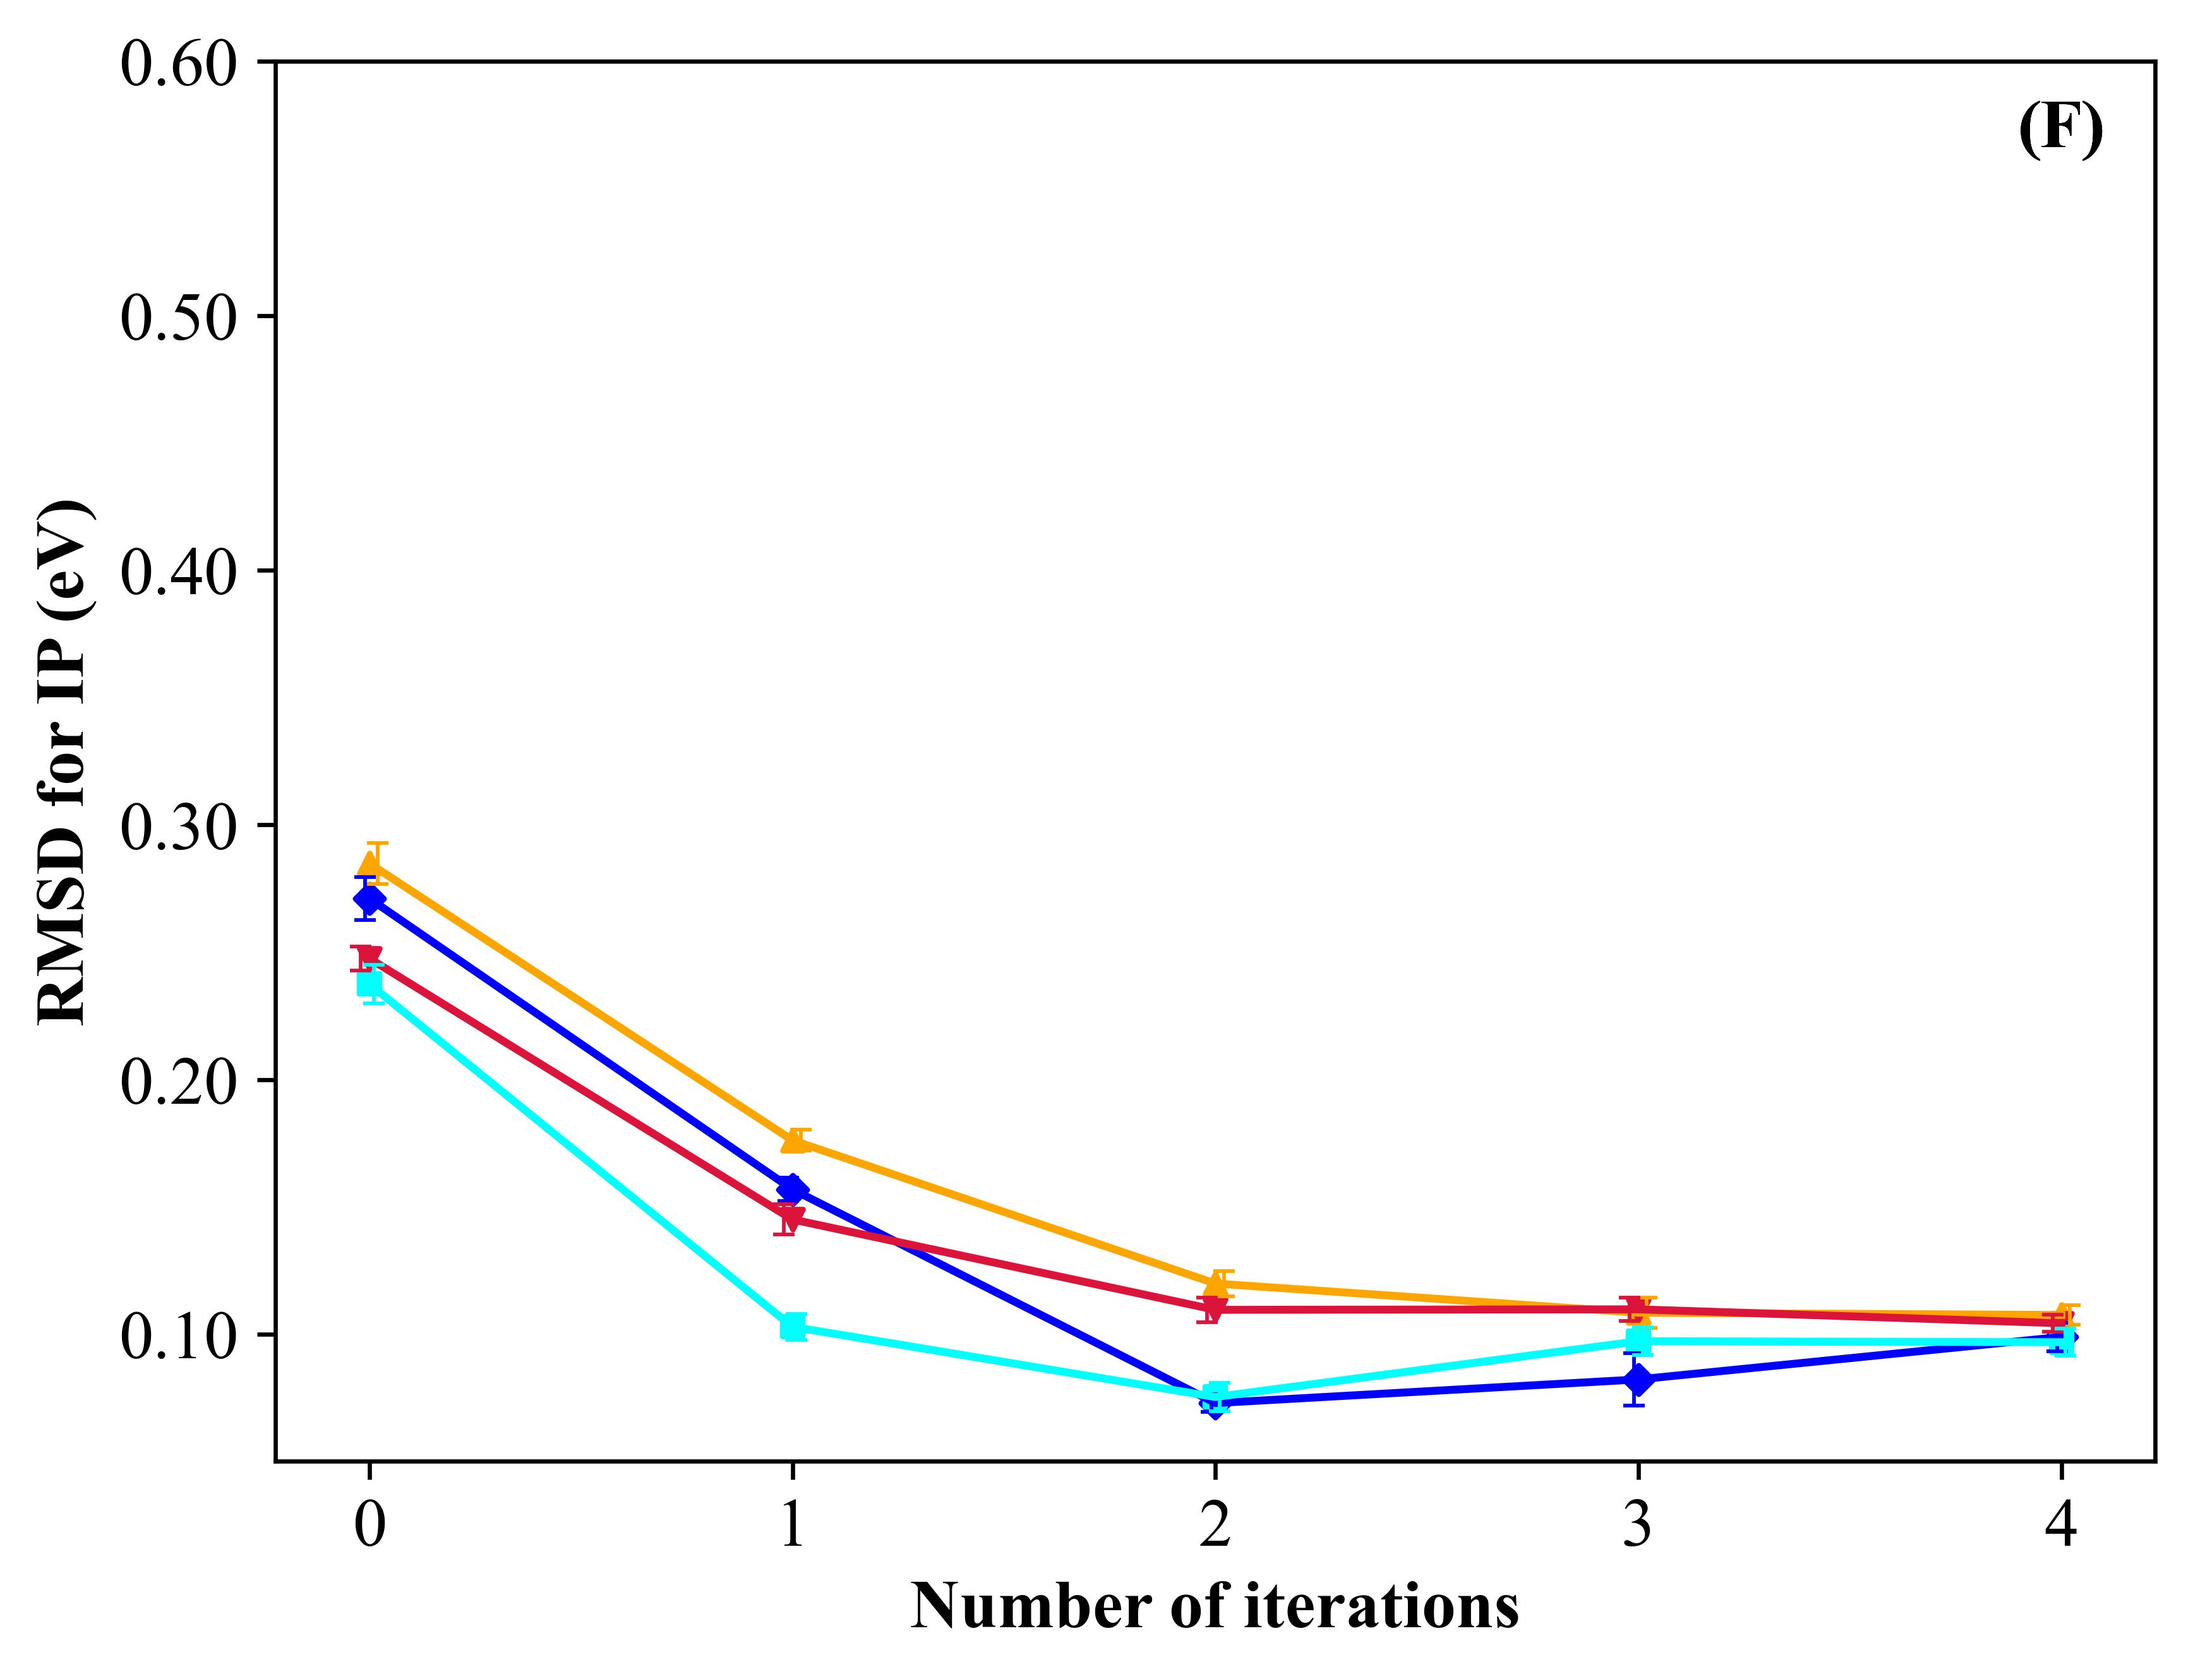
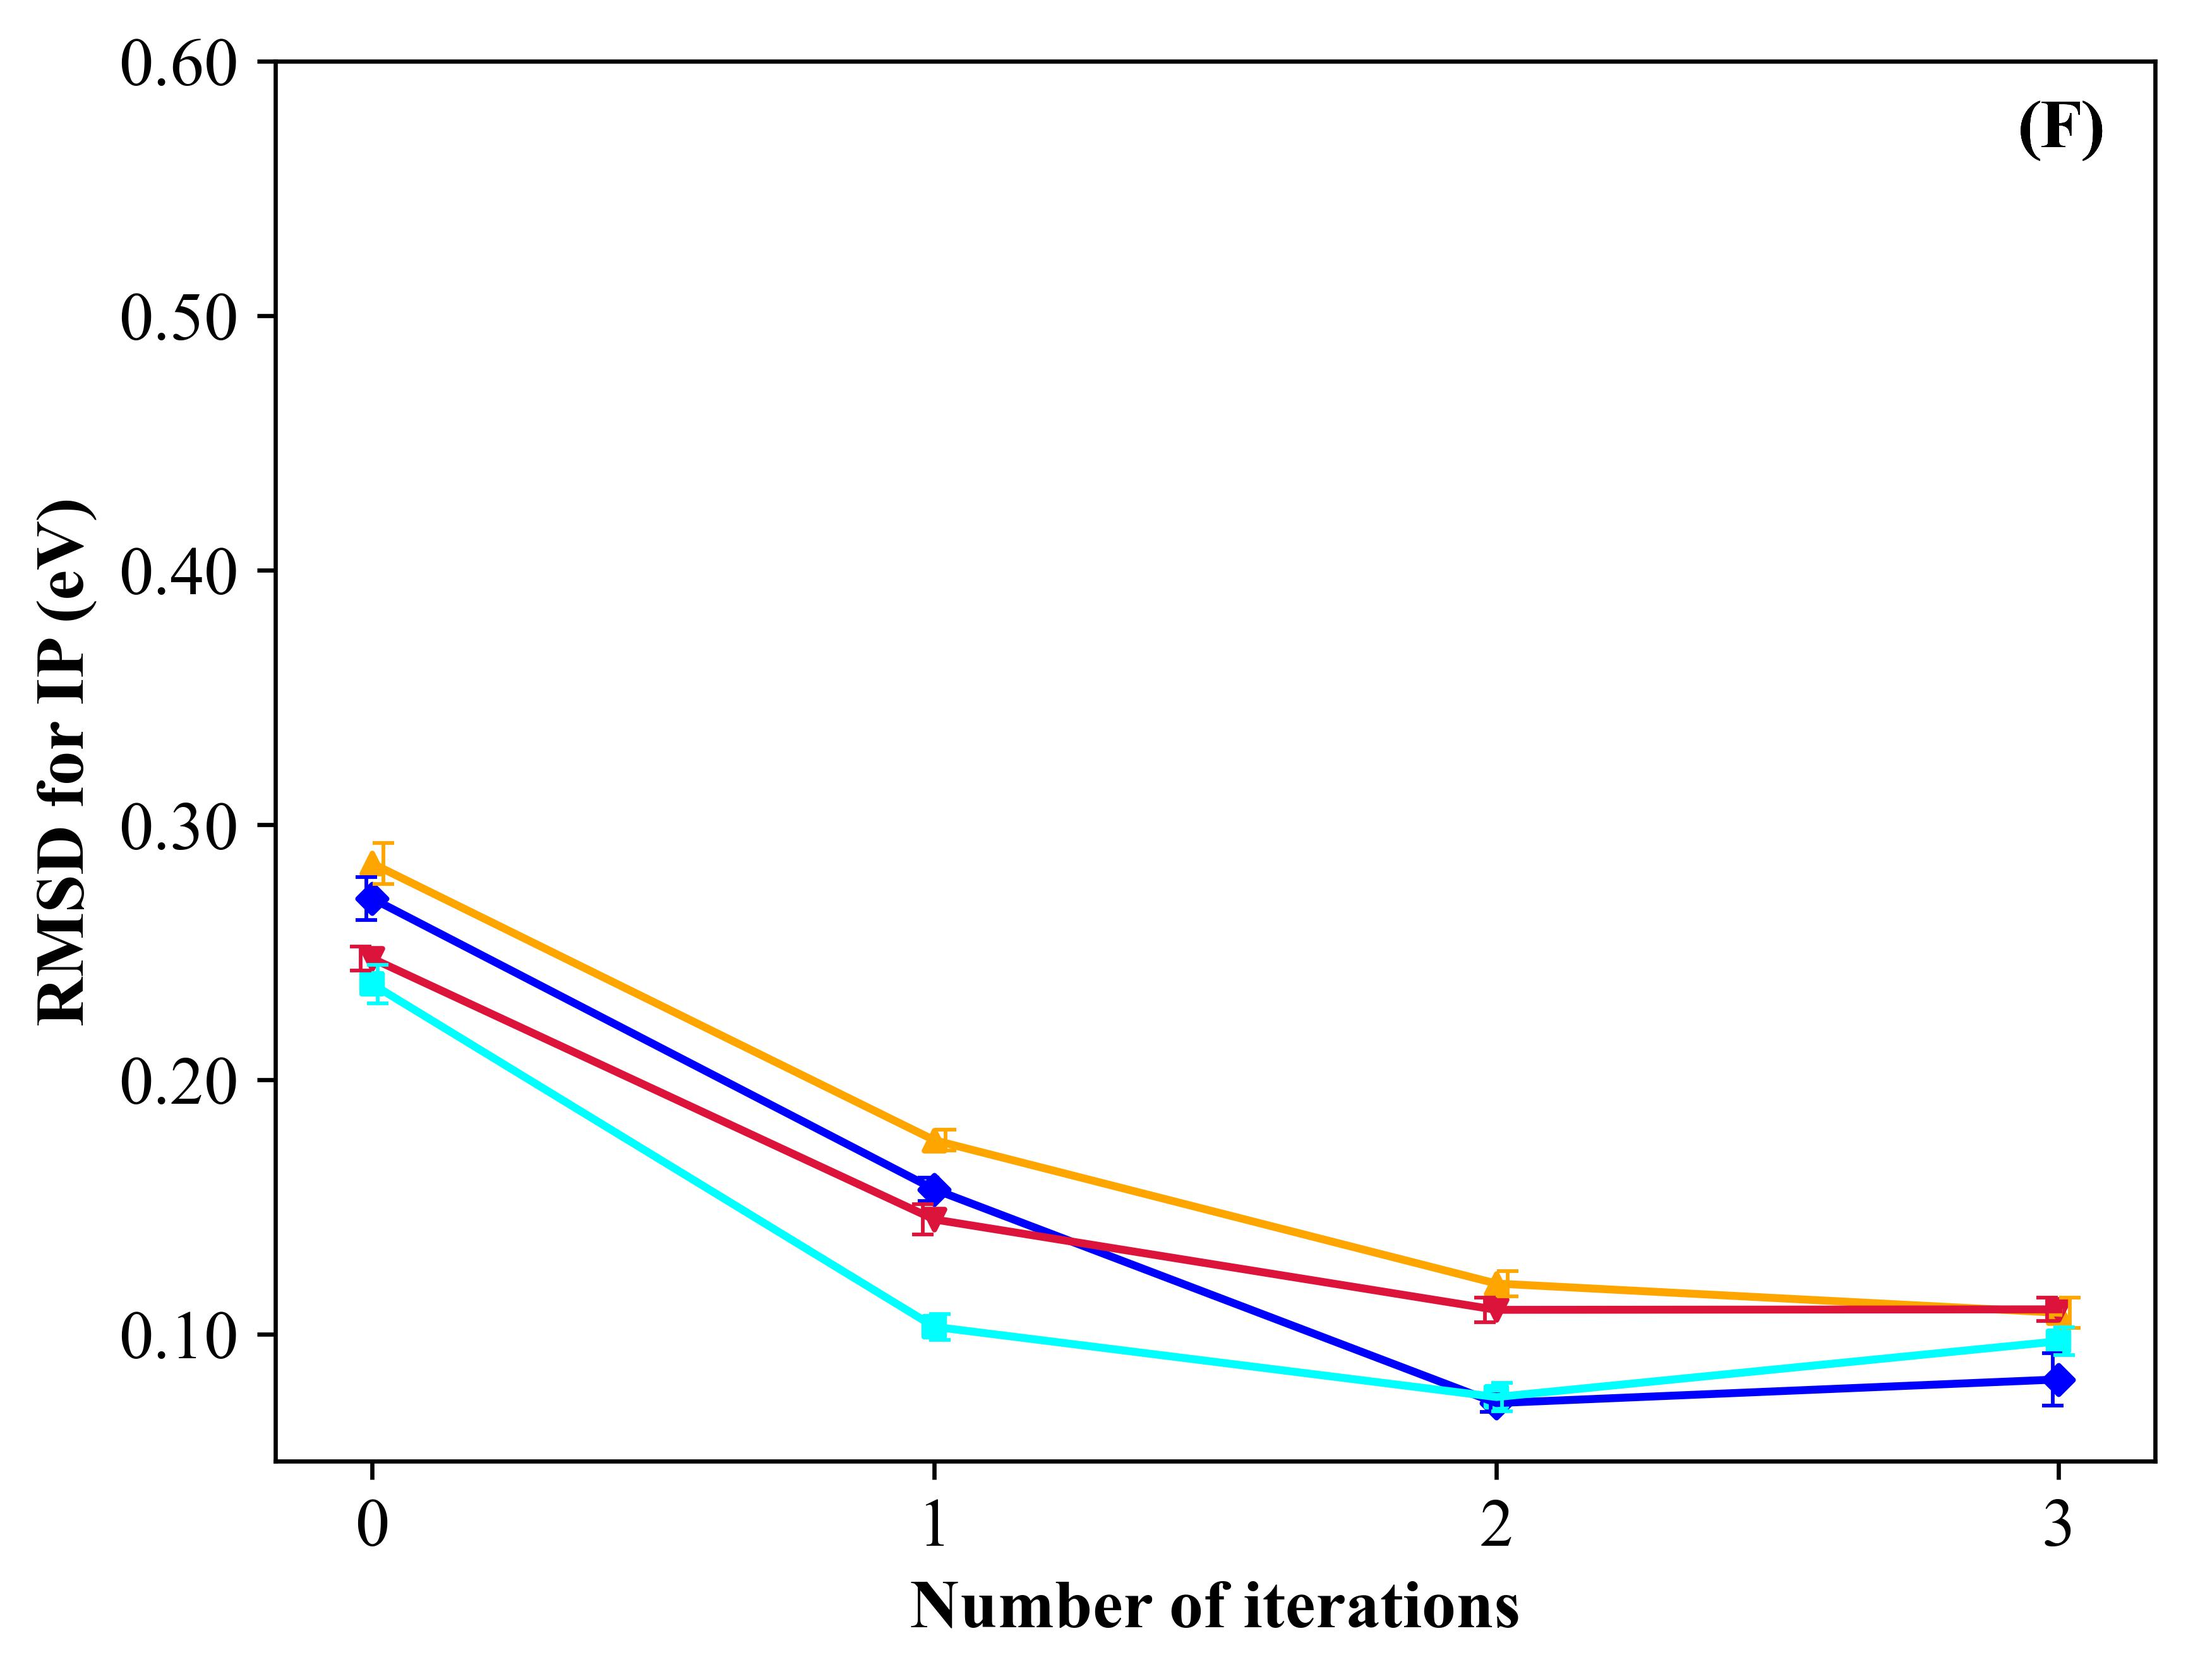
31Aug2022

Changed region(s): [[0.1555, 0.4994, 0.9643, 0.8428], [0.9332, 0.9052, 0.9643, 0.9364]]

diff --git a/experiments/plot_vs_num_iter.py b/experiments/plot_vs_num_iter.py
@@ -12,14 +12,12 @@ import pickle
 from utils.plot_utility_v3 import scatter_plot, font_legend, annotate
 
 plot_lim_data = {
-    "mixed":[(0.13,0.65), (0.09,0.5),(0.08,0.39)],
-    "pah":[(0.09,0.65), (0.05,0.35),(0.05,0.30)],
+    "mixed":[(0.13,0.65), (0.09,0.5),(0.05,0.39)],
+    "pah":[(0.08,0.65), (0.03,0.35),(0.03,0.30)],
     "subst":[(0.09,0.65), (0.08,0.6),(0.05,0.60)],
 }
 
 for data in ["mixed","pah","subst"]:
-    num_iters = [0,1,2,3,4]
-
     with open("\\".join(path) + "\\vs_num_iter_"+ data+".pkl","rb") as handle:
         result = pickle.load(handle)
 
@@ -28,8 +26,8 @@ for data in ["mixed","pah","subst"]:
 
     elec_prop_list = ["BG","EA","IP"]
     method_list = [
-        "WL-A/RR", "WL-A/KRR",
-        "WL-AB/RR", "WL-AB/KRR",
+        "WL-A/RR", "WL-A/GPR",
+        "WL-AB/RR", "WL-AB/GPR",
         #"WL-AD/RR","WL-AD/KRR"
         ]
 
@@ -49,8 +47,17 @@ for data in ["mixed","pah","subst"]:
 
     shifted = [0.02,-0.01,-0.02,0.01,0.02,-0.02]
 
-    for e,elec_prop in enumerate(elec_prop_list):
-        for j,method in enumerate(method_list):
+    for j,method in enumerate(method_list):
+        if data == "mixed":
+            num_iters = [0,1,2,3]
+            if method == "WL-AB/GPR" : num_iters = [0,1,2]
+        elif data == "pah":
+            num_iters = [0,1,2,3,4]
+            if method == "WL-AB/GPR" : num_iters = [0,1,2]
+            if method == "WL-A/GPR" : num_iters = [0,1,2,3]
+        elif data == "subst":
+            num_iters = [0,1,2,3]
+        for e,elec_prop in enumerate(elec_prop_list):
             if j > 3:
                 continue
             else:

diff --git a/vs_num_iter.py b/vs_num_iter.py
@@ -79,6 +79,19 @@ for i in range(N):
     train_set, test_set = data_splitter(
         data_generator, train_split = 0.7, random_state = random_state)
 
+    if data == "mixed":
+        num_iters = [0,1,2,3,4]
+        if j == 3: num_iters = [0,1,2] # verified w single calculation
+        if j == 1: num_iters = [0,1,2,3]
+    elif data == "pah":
+        num_iters = [0,1,2,3,4,5]
+        if j == 3: num_iters = [0,1,2]
+        if j == 1: num_iters = [0,1,2,3]
+    elif data == "subst":
+        num_iters = [0,1,2,3,4,5]
+        if j == 3: num_iters = [0,1,2,3,4] # verified, not overfit w 3, 4 but long compute time
+        if j == 1: num_iters = [0,1,2,3] # verified, not overfit w 3, 4 but long compute time
+
     for j, method in enumerate(method_list):
 
         for num_iter in num_iters:

diff --git a/pipeline.py b/pipeline.py
@@ -89,11 +89,14 @@ def model_getter(model,kernel = None,grid_search = False,name = None):
                 }
 
     elif model =="gpr":
-        #kernel1 = DotProduct(sigma_0 = 1,sigma_0_bounds = (1e-10,1e5)) * ConstantKernel(1.0)
+        kernel1 = DotProduct(sigma_0 = 1,sigma_0_bounds = (1e-10,1e5)) * ConstantKernel(1.0)
         kernel2 = RBF() * ConstantKernel(1.0)
         regressor,param_grid = ModGaussianProcessRegressor, {
                 "kernel": [kernel2] ,
-                "alpha" : [5e-3,5e-2],
+                "alpha" : [
+                    5e-3,
+                    #5e-2
+                    ],
                 "_max_iter":[20000]
                 }
     else:

diff --git a/experiments/plot_vs_radius.py b/experiments/plot_vs_radius.py
@@ -50,8 +50,8 @@ for data in ["mixed","pah","subst"]:
     shifted = [0.02,-0.01,-0.02,0.01,0.02,-0.02]
 
     plot_lim_data = {
-        "mixed":[(0.13,0.65), (0.09,0.5),(0.08,0.39)],
-        "pah":[(0.09,0.65), (0.05,0.35),(0.05,0.30)],
+        "mixed":[(0.13,0.65), (0.09,0.5),(0.05,0.39)],
+        "pah":[(0.08,0.65), (0.03,0.35),(0.03,0.30)],
         "subst":[(0.09,0.65), (0.08,0.6),(0.05,0.60)],
     }
 

diff --git a/main.py b/main.py
@@ -36,7 +36,7 @@ parser.add_argument(
     help = "The number of iteration of the WL labelling algorithm. Int < 10, default to 2.",
     type = int, default = 2, choices = range(0,20))
 parser.add_argument(
-    "-dt","--train_split",
+    "-t","--train_split",
     help = "ratio of training set/total data set. float < 1.0, default to 0.7.",
     default = 0.7, type = float)
 parser.add_argument(
